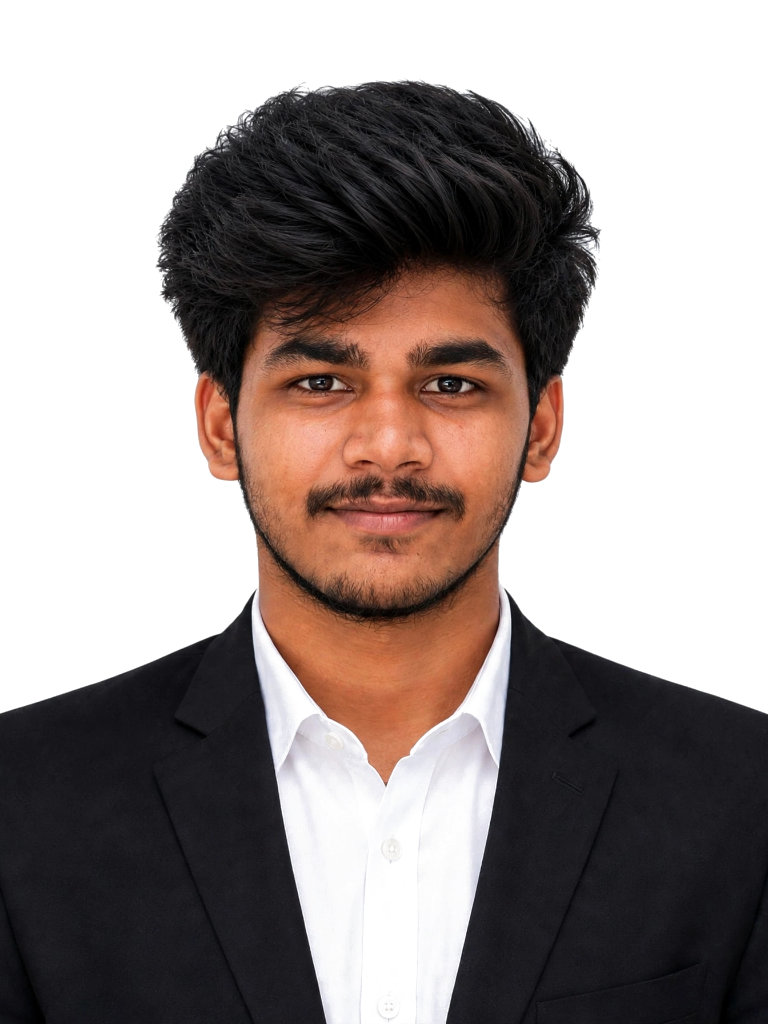
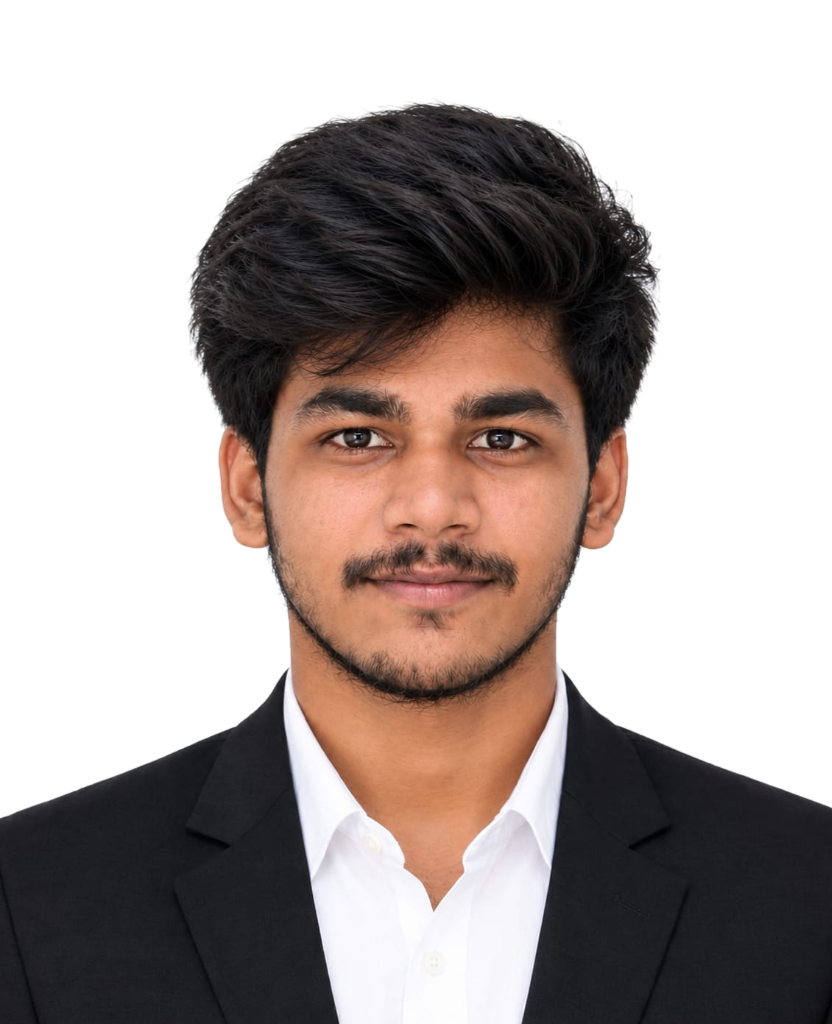
feat: update portfolio portrait with new high-resolution professional photo

diff --git a/src/components/sections/About.tsx b/src/components/sections/About.tsx
@@ -124,12 +124,19 @@ export default function About() {
             {/* Profile Overview Card with Spinning Ring & PK Initials */}
             <div className="clean-card p-6 border border-purple-500/20 bg-gradient-to-b from-purple-900/[0.1] via-blue-900/[0.05] to-transparent">
               <div className="flex items-center gap-4 pb-4 border-b border-white/[0.08]">
-                {/* Profile graphic with animated spinning ring from previous version */}
+                {/* Profile graphic with animated spinning ring & real portrait */}
                 <div className="relative w-14 h-14 shrink-0">
                   <div className="absolute inset-0 rounded-full border border-blue-400/40 animate-spin-slow" />
                   <div className="absolute -inset-1 rounded-full border border-dashed border-purple-400/30 animate-spin" style={{ animationDuration: "20s" }} />
-                  <div className="w-full h-full rounded-full bg-gradient-to-br from-blue-600 via-indigo-600 to-purple-600 flex items-center justify-center font-display font-bold text-white text-lg shadow-lg shadow-purple-600/25">
-                    PK
+                  <div className="w-full h-full rounded-full overflow-hidden border border-white/20 shadow-lg shadow-purple-600/25 bg-slate-900 flex items-center justify-center">
+                    <img
+                      src="./praveen_portrait.jpg"
+                      alt="Praveen Kumar E"
+                      className="w-full h-full object-cover object-top"
+                      onError={(e) => {
+                        (e.currentTarget as HTMLImageElement).src = "./praveen.png";
+                      }}
+                    />
                   </div>
                 </div>
 
